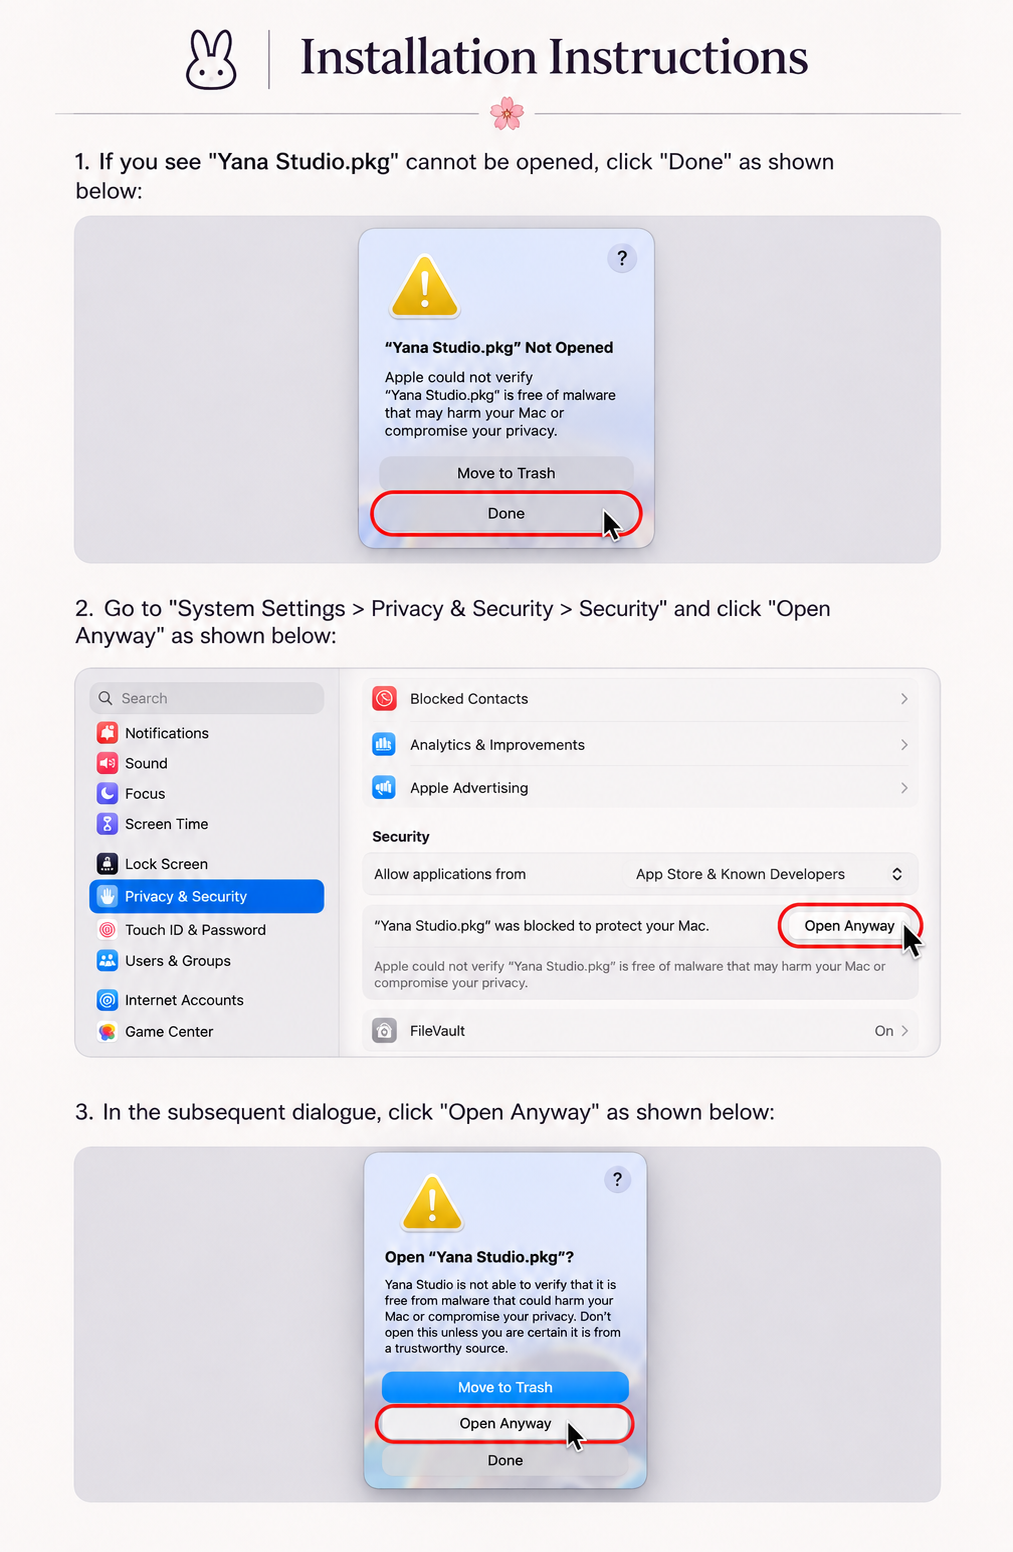
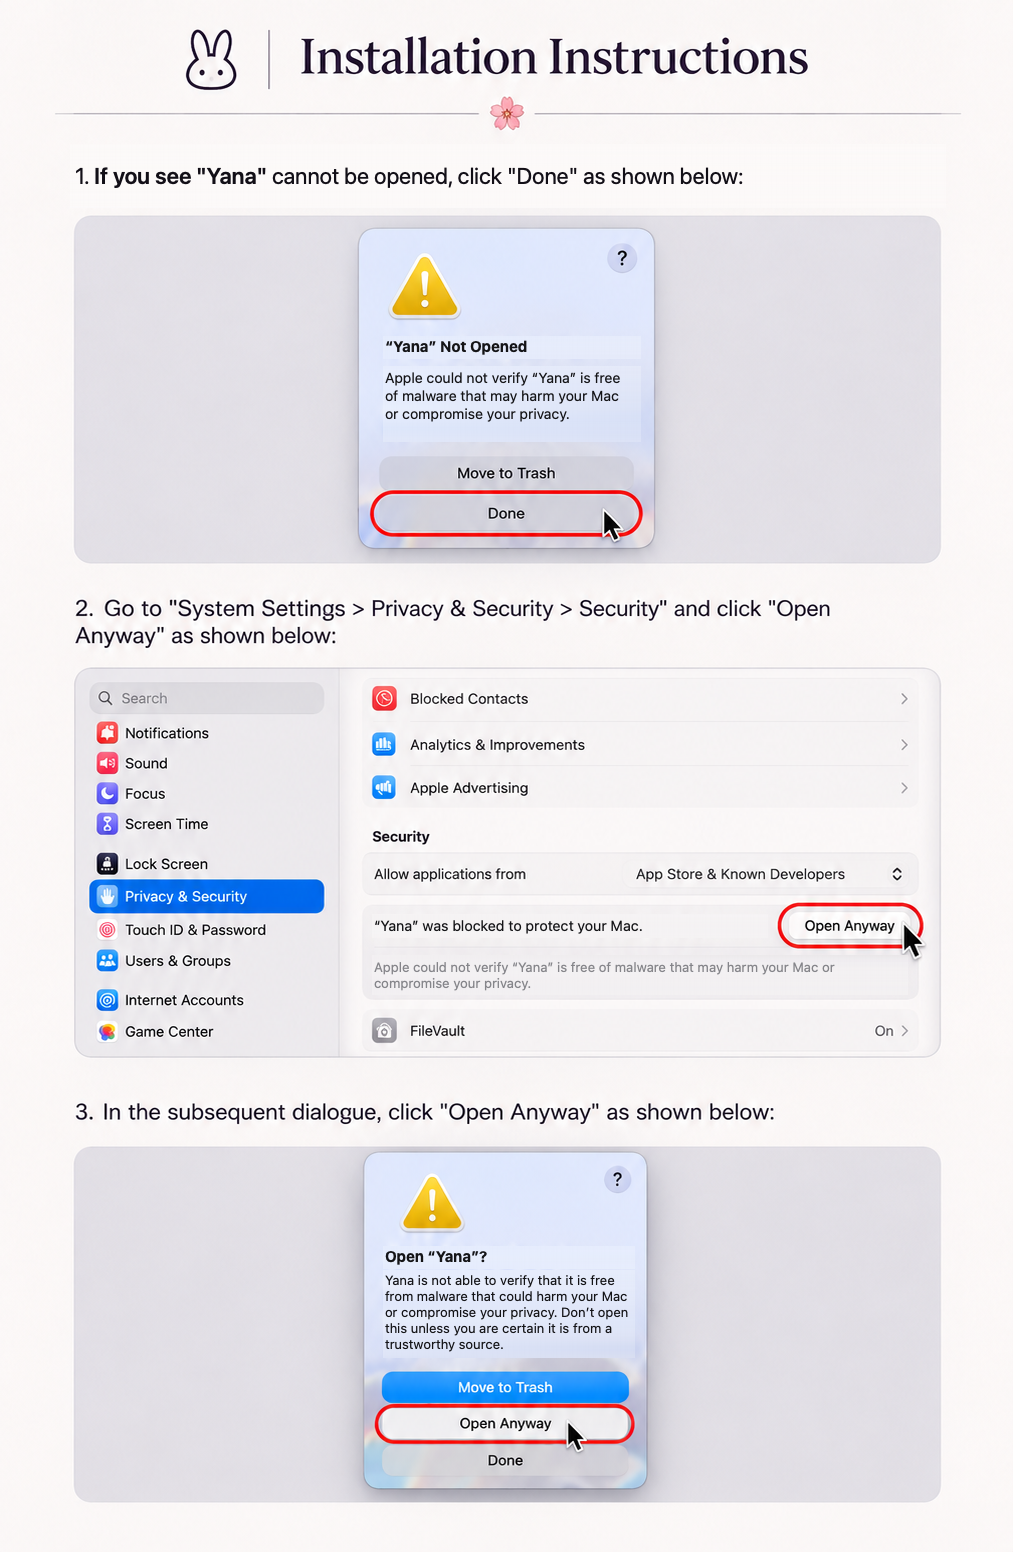
fix(app): level texts match yana-rt 1.5.5, install guide names the app

diff --git a/yana-app/Sources/YanaApp/Strings.swift b/yana-app/Sources/YanaApp/Strings.swift
@@ -110,13 +110,13 @@ private let chatRows: [StringRow] = [
 	StringRow("level.2.about", "Như cấp 1, và nhớ những câu trả lời bạn chọn nhớ (đúng lệnh đó, trong phiên hoặc luôn luôn).", "As level 1, and remembers the answers you chose to remember (that exact command, for the session or always).", "1단계와 같고, 기억하기로 한 답(정확히 그 명령, 세션 또는 항상)을 기억합니다."),
 	StringRow("level.3.name", "Tự sửa trong dự án", "Edits the project", "프로젝트 자동 수정"),
 	StringRow("level.3.about", "Cũng tự sửa các file thường trong dự án. File cấu trúc (CI, git, phụ thuộc, khóa) vẫn hỏi.", "Also edits ordinary project files on its own. Structure files (CI, git, dependencies, keys) still ask.", "일반 프로젝트 파일은 스스로 수정합니다. 구조 파일(CI, git, 의존성, 키)은 여전히 묻습니다."),
-	StringRow("level.4.name", "Tự chạy lệnh an toàn", "Safe commands", "안전한 명령 자동 실행"),
-	StringRow("level.4.about", "Cũng tự chạy một danh sách ngắn lệnh an toàn (xem trạng thái, build, test).", "Also runs a short list of safe commands on its own (status, build, test).", "짧은 안전 명령 목록(상태 확인, 빌드, 테스트)도 스스로 실행합니다."),
-	StringRow("level.5.name", "Tự chủ trong hộp cát", "Sandboxed", "샌드박스 자율"),
-	StringRow("level.5.about", "Cũng chạy các lệnh khác, chỉ khi đang trong hộp cát. Việc nguy hiểm vẫn không bao giờ tự chạy.", "Also runs other commands, only inside a sandbox. Dangerous actions never run on their own.", "다른 명령도 샌드박스 안에서만 실행합니다. 위험한 작업은 절대 스스로 실행하지 않습니다."),
+	StringRow("level.4.name", "Lệnh an toàn (chờ cách ly)", "Safe commands (needs isolation)", "안전한 명령(격리 필요)"),
+	StringRow("level.4.about", "Dành cho việc tự chạy lệnh an toàn khi có cách ly. Hiện chưa có cách ly, nên không lệnh nào tự chạy theo cấp này.", "Meant to run safe commands on its own once they are isolated. Nothing isolates them yet, so this level runs no command by itself.", "격리가 갖춰지면 안전한 명령을 스스로 실행하기 위한 수준입니다. 아직 격리가 없어 이 수준은 어떤 명령도 스스로 실행하지 않습니다."),
+	StringRow("level.5.name", "Hộp cát (chưa có)", "Sandboxed (not available yet)", "샌드박스(아직 없음)"),
+	StringRow("level.5.about", "Dành cho các lệnh khác khi chạy trong hộp cát. Hiện chưa có hộp cát, nên không lệnh nào tự chạy theo cấp này.", "Meant for other commands inside a sandbox. There is no sandbox yet, so this level runs no command by itself.", "샌드박스 안에서 다른 명령을 실행하기 위한 수준입니다. 아직 샌드박스가 없어 이 수준은 어떤 명령도 스스로 실행하지 않습니다."),
 	StringRow("away.title", "Vắng mặt", "Away", "자리 비움"),
 	StringRow("away.on", "Đang vắng mặt", "Away", "자리 비움 중"),
-	StringRow("away.explain", "Cho công việc tiếp tục khi bạn đi. Bạn đặt hộp trước: mức, số hành động, thời gian. Việc nguy hiểm không bao giờ tự chạy: nó được xếp hàng chờ bạn.", "Lets the work continue while you are gone. You set the box first: level, number of actions, time. Dangerous actions never run on their own: they wait in a queue for you.", "자리를 비운 동안 작업을 계속합니다. 먼저 수준, 작업 수, 시간을 정합니다. 위험한 작업은 스스로 실행되지 않고 대기열에서 기다립니다."),
+	StringRow("away.explain", "Cho công việc tiếp tục khi bạn đi. Bạn đặt hộp trước: mức, số hành động, thời gian. Yana chỉ tự sửa các tệp thường trong dự án; mọi lệnh đều xếp hàng chờ bạn, vì chưa có cách ly.", "Lets the work continue while you are gone. You set the box first: level, number of actions, time. Yana only edits ordinary project files on its own; every command waits in a queue for you, because nothing isolates commands yet.", "자리를 비운 동안 작업을 계속합니다. 먼저 수준, 작업 수, 시간을 정합니다. Yana는 일반 프로젝트 파일만 스스로 수정합니다. 아직 격리가 없어 모든 명령은 대기열에서 당신을 기다립니다."),
 	StringRow("away.stop", "Dừng", "Stop", "중지"),
 	StringRow("away.level", "Mức", "Level", "수준"),
 	StringRow("away.budget", "Số hành động", "Actions", "작업 수"),
